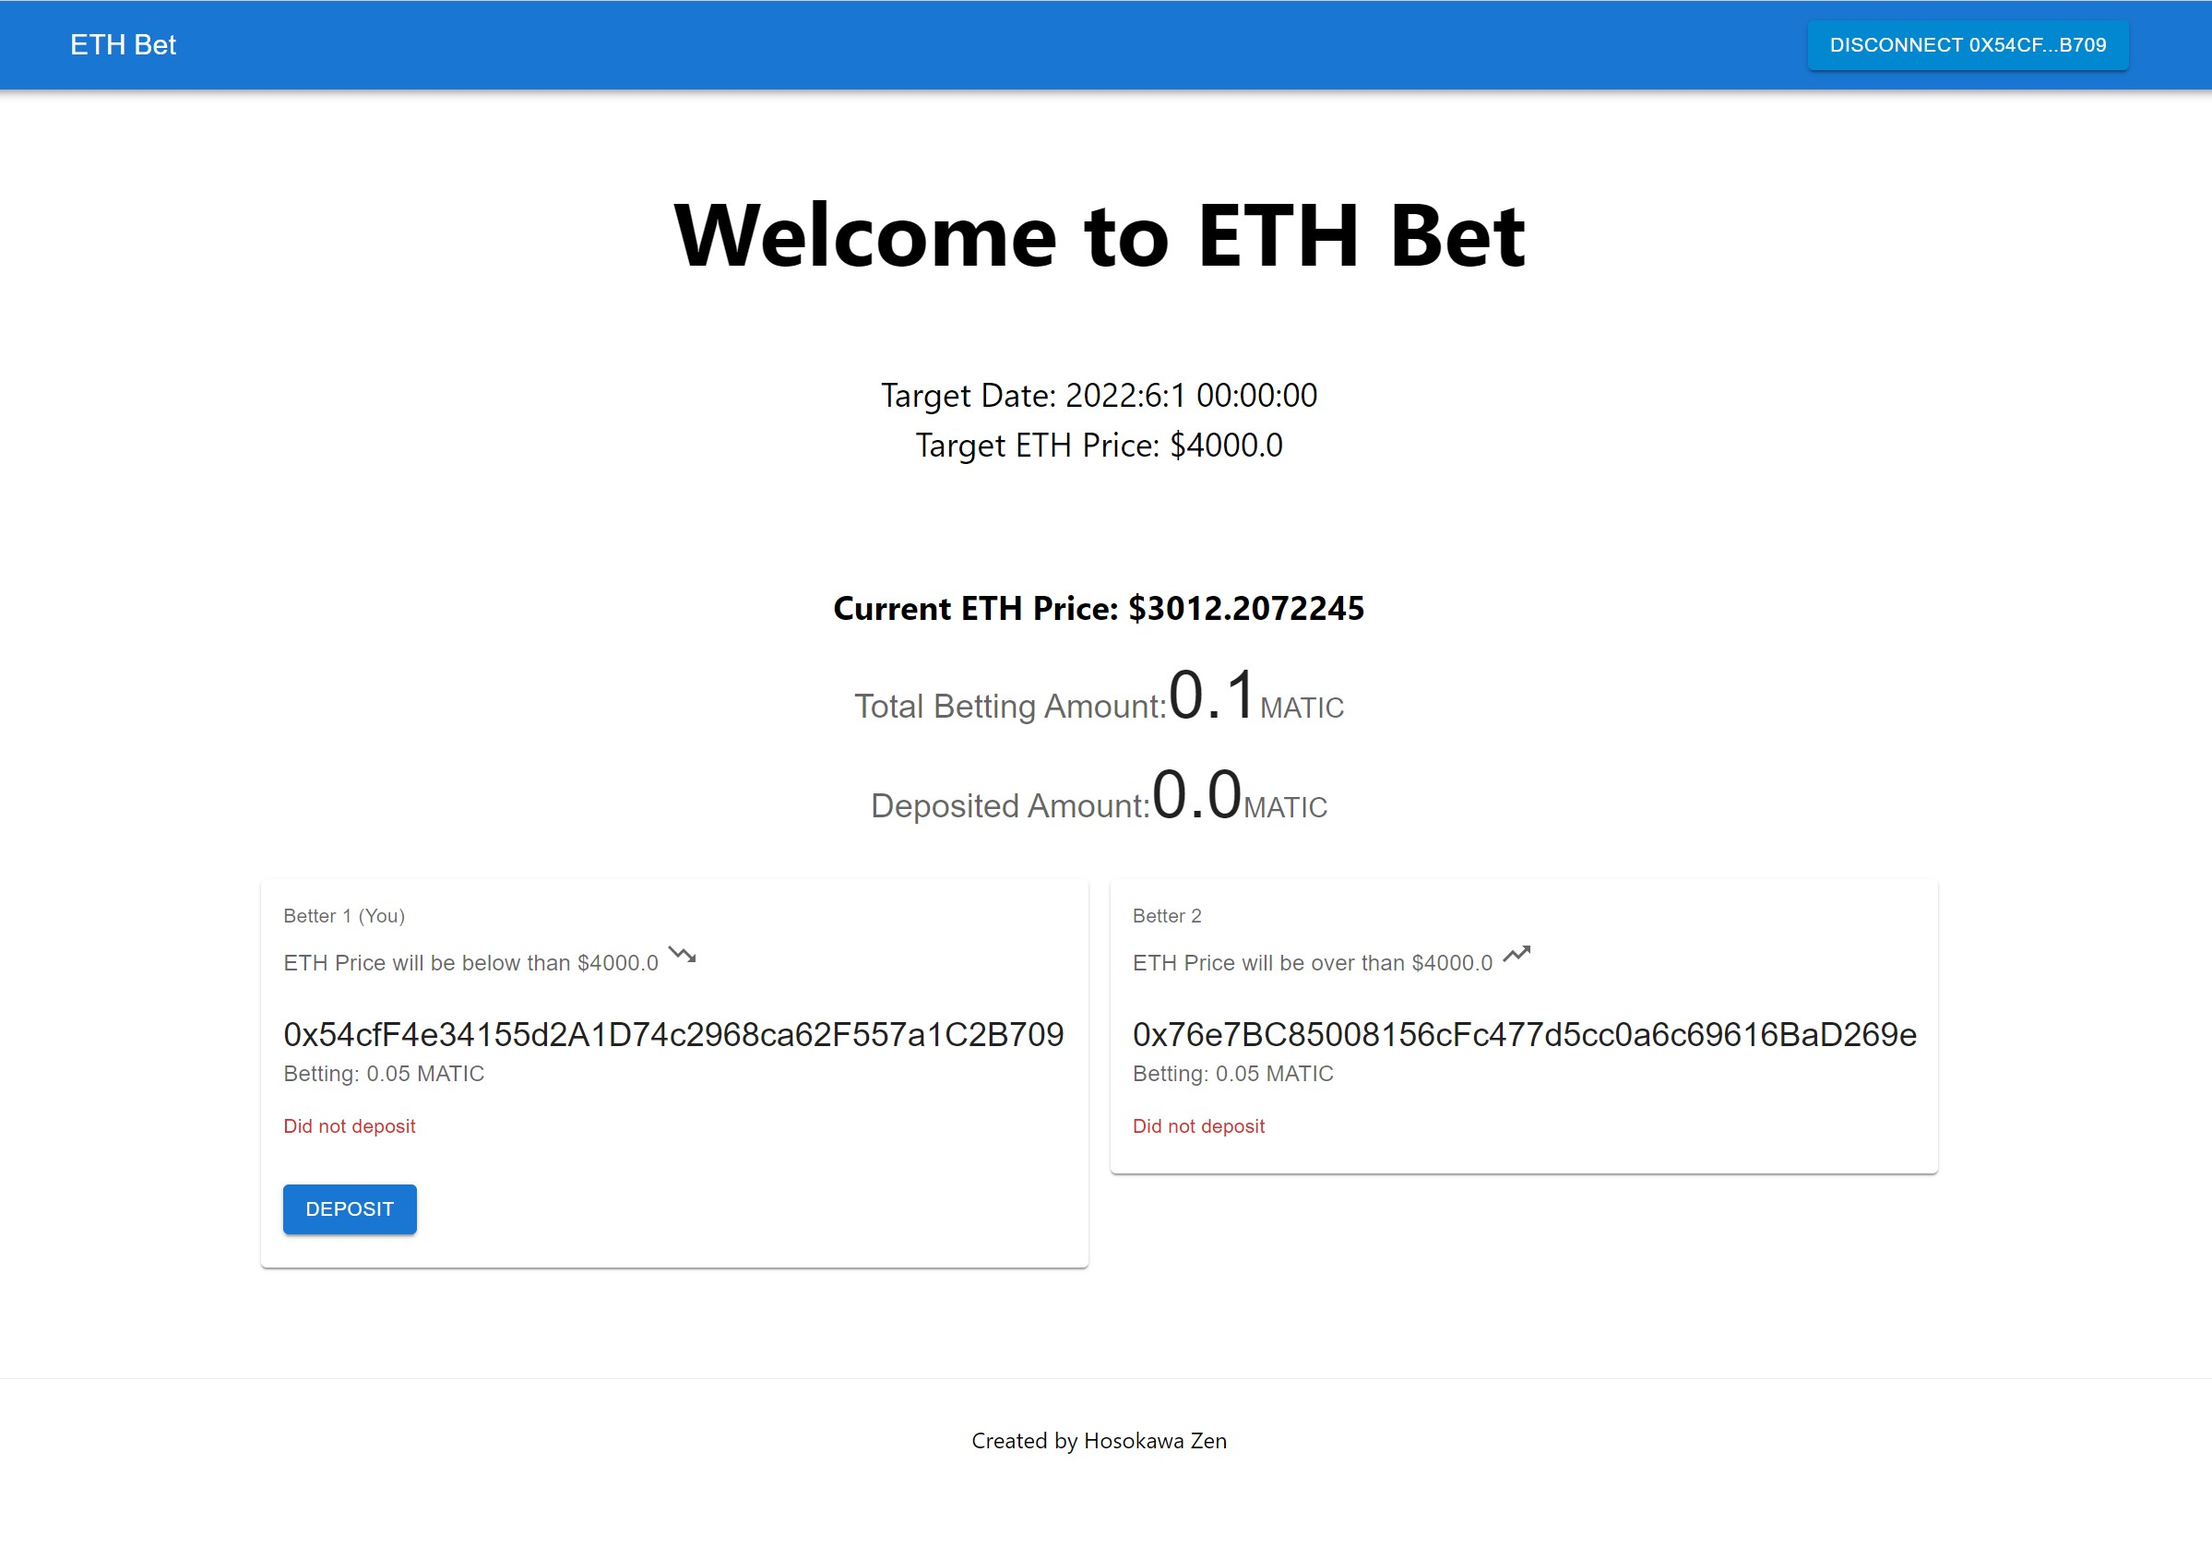
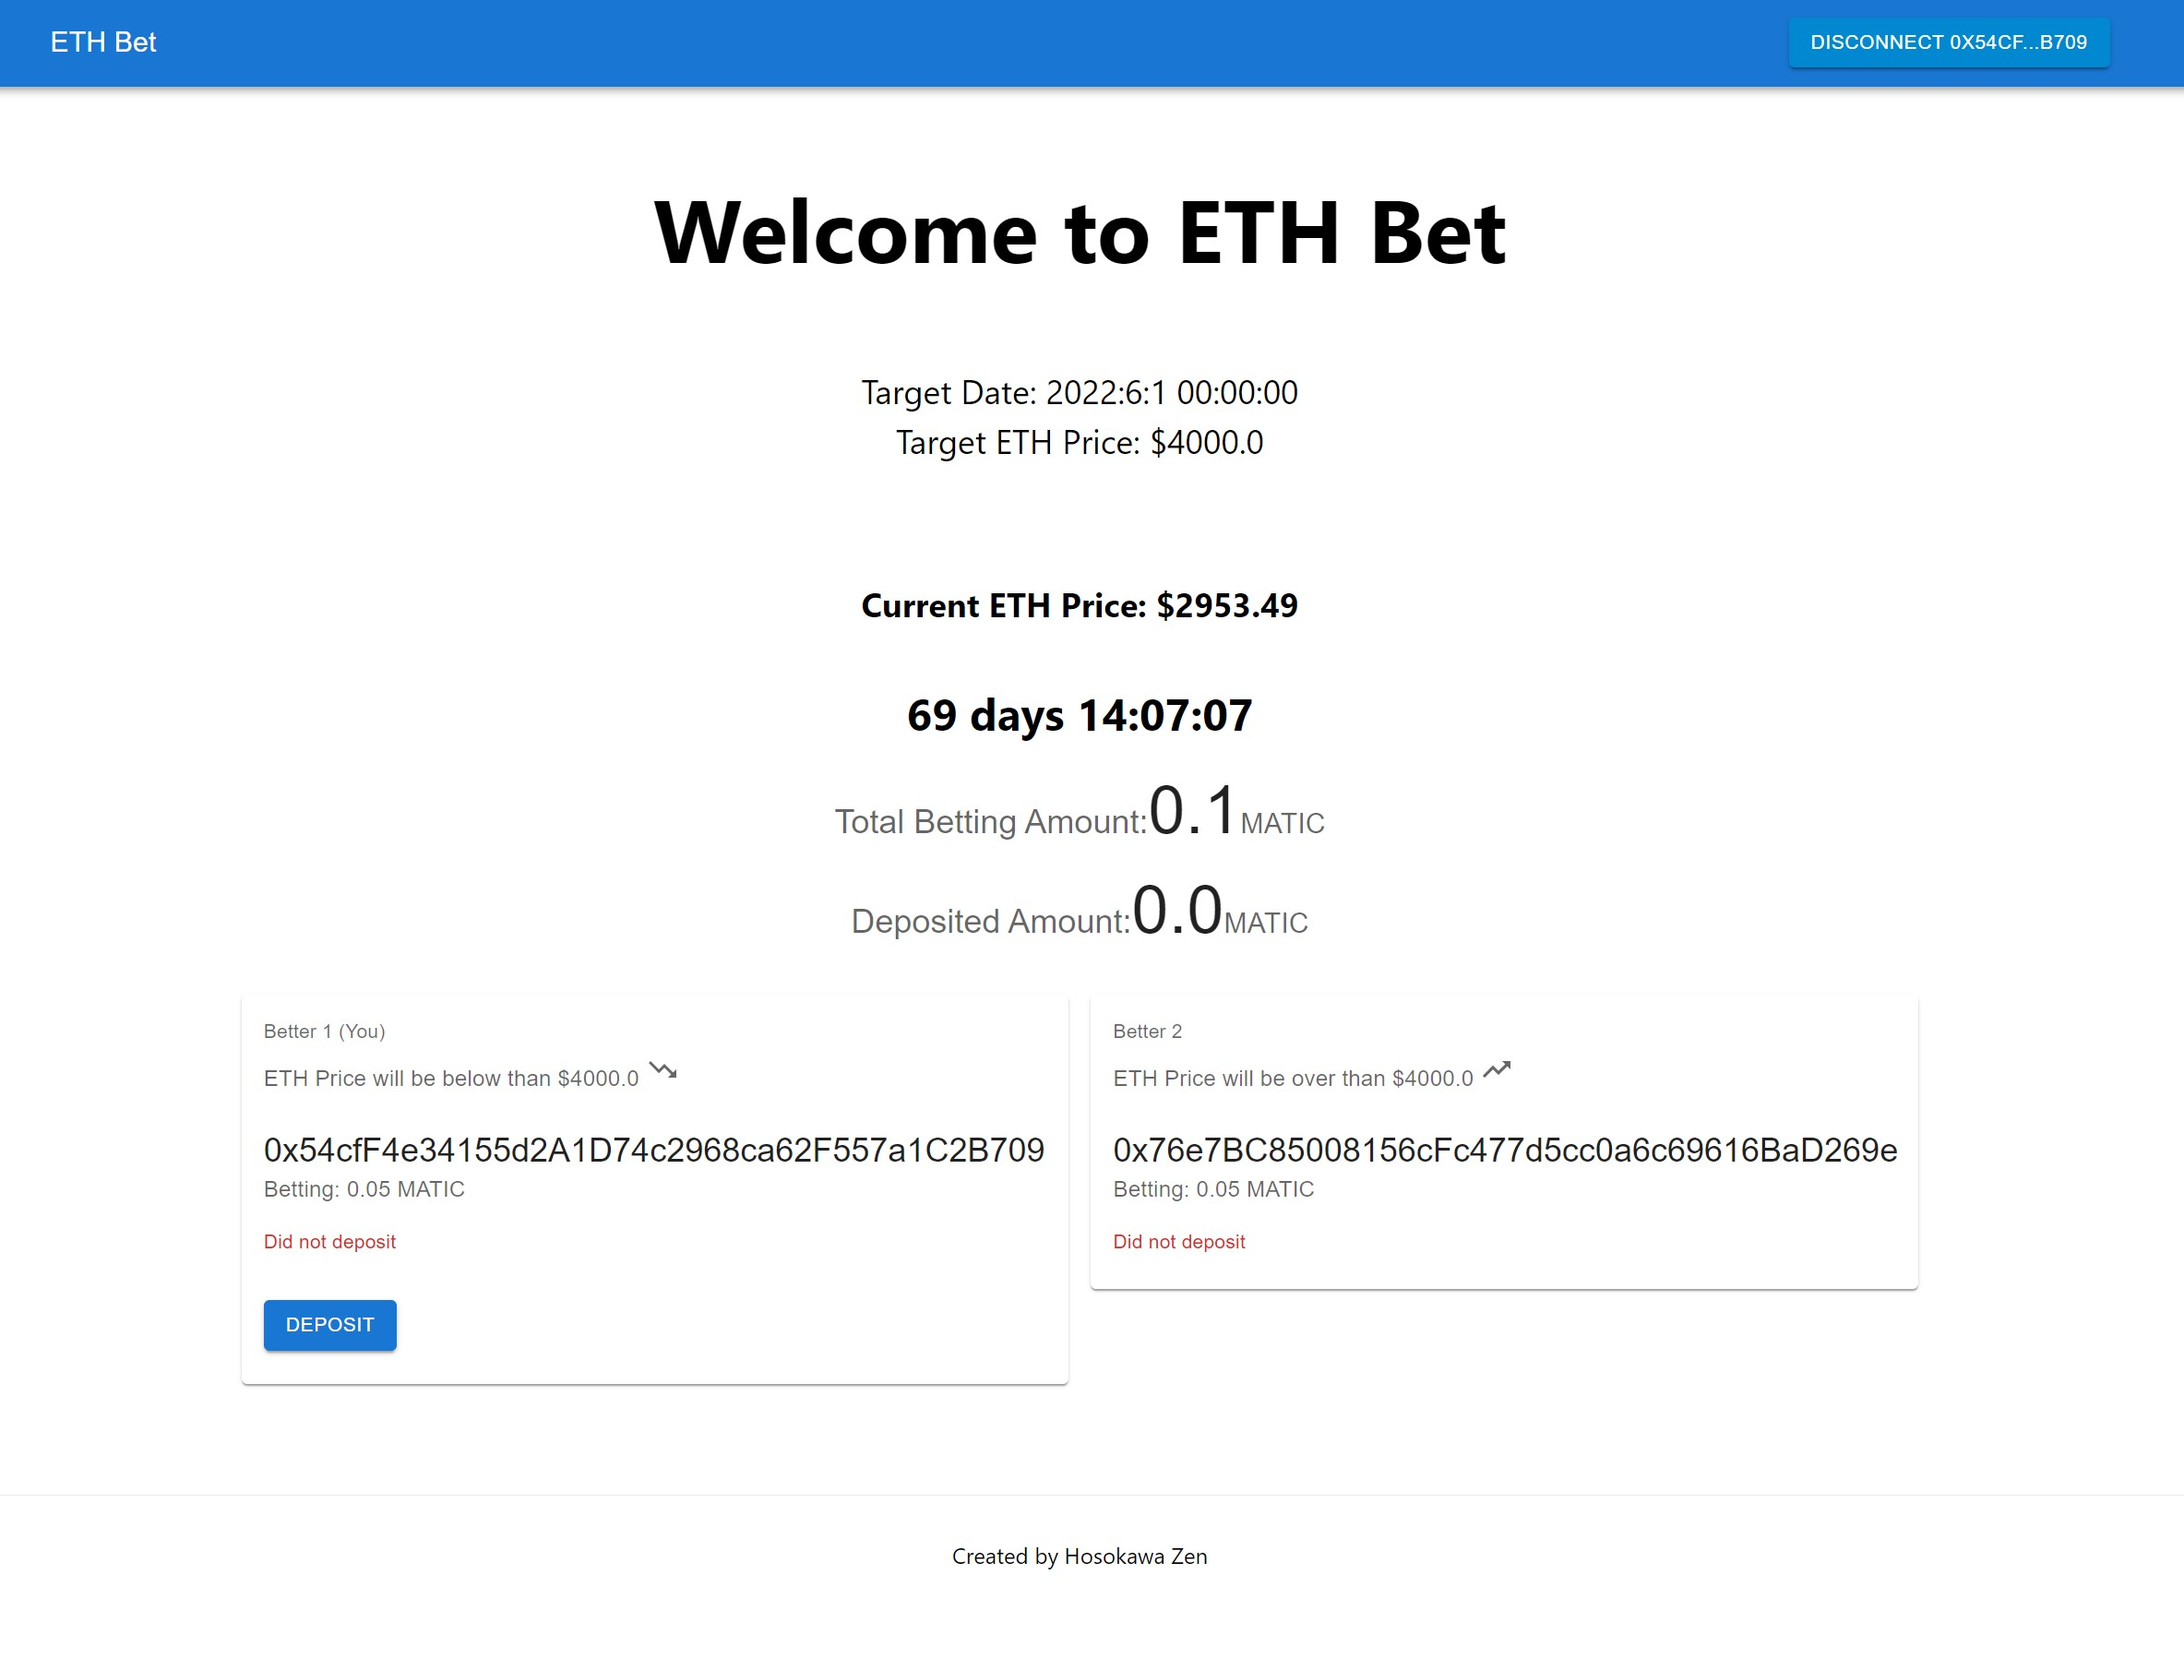
add time counter

diff --git a/packages/front-end/pages/index.tsx b/packages/front-end/pages/index.tsx
@@ -8,6 +8,7 @@ import useActiveWeb3React from "../hooks/useActiveWeb3React";
 import BetterCard, {EtherBet, parseBetterData} from "../components/BetterCard";
 import {BigNumber} from "@ethersproject/bignumber";
 import {formatWithDecimals} from "../utils/decimal";
+import CountDown from "../components/CountDown";
 
 interface BetData {
     betters: EtherBet[];
@@ -64,7 +65,10 @@ const Home: NextPage = () => {
         console.log('effect');
     }, [account, etherBetContract]);
 
+    const targetDate = betData?.endTp ? (betData.endTp.getFullYear() + ':' + (betData.endTp.getMonth() + 1) + ':' + betData.endTp.getDate()) + ' 00:00:00' : ' - ';
+    const initSecCounter = (betData?.endTp && betData.endTp.getTime() > new Date().getTime()) ? (betData.endTp.getTime() - new Date().getTime()) / 1000 : 0;
 
+    console.log('initSec', initSecCounter);
     return (
         <div className={styles.container}>
             <Head>
@@ -77,12 +81,14 @@ const Home: NextPage = () => {
                     Welcome to ETH Bet
                 </h1>
                 <p className={styles.description}>
-                    Target Date: {betData?.endTp ? (betData.endTp.getFullYear() + ':' + (betData.endTp.getMonth() + 1) + ':' + betData.endTp.getDate()) + ' 00:00:00' : ' - '} <br/>
+                    Target Date: {targetDate} <br/>
                     Target ETH Price: ${betData?.tpPrice ? formatWithDecimals(betData.tpPrice) : ' -'}
                 </p>
                 <h2 className="current-eth-price">
                     Current ETH Price: ${lastETHPrice ? formatWithDecimals(lastETHPrice) : ' - '}
                 </h2>
+
+                <CountDown initSec={initSecCounter}/>
 
                 <Box
                     sx={{

diff --git a/packages/front-end/components/CountDown/index.tsx b/packages/front-end/components/CountDown/index.tsx
@@ -1,0 +1,41 @@
+import {useEffect, useState} from "react";
+
+const CountDown = (props: any) => {
+    const {initSec = 0} = props;
+    const [sec, setSecs] = useState(initSec);
+
+    useEffect(() => {
+        let counterInterval = setInterval(() => {
+            if (sec > 0) {
+                setSecs(sec - 1);
+            }
+            if (sec === 0) {
+                clearInterval(counterInterval)
+            }
+        }, 1000)
+        return () => {
+            clearInterval(counterInterval);
+        };
+    });
+
+    useEffect(() => {
+        setSecs(initSec);
+    }, [initSec]);
+
+    const days = Math.floor(sec / (60 * 60 * 24));
+    let divisor_for_next = sec % (60 * 60 * 24);
+    const hours = Math.floor(divisor_for_next / (60 * 60));
+    divisor_for_next = divisor_for_next % (60 * 60);
+    const minutes = Math.floor(divisor_for_next / 60);
+    const seconds = Math.ceil(divisor_for_next % 60);
+
+    return (
+        <h1 className="time-counter">
+            {sec === 0 ? '00:00:00'
+                : <>{days > 0 ? `${days} days` : ''} {hours > 9 ? `${hours}` : `0${hours}`}:{minutes > 9 ? `${minutes}` : `0${minutes}`}:{seconds > 9 ? `${seconds}` : `0${seconds}`}</>
+            }
+        </h1>
+    )
+}
+
+export default CountDown;

diff --git a/README.md b/README.md
@@ -91,5 +91,7 @@ yarn deploy
 yarn start
 ```
 
-![Image](./screenshots/Screenshot%202022-03-23%20012259.jpg)
+## Result
+Deployed [ChainlinkEtherBet Contract at 0x45b20C5Fb9E5A9d77a7428a8631262f0C1Da5c3c on Mumbai(Testnet)](https://mumbai.polygonscan.com/address/0x45b20C5Fb9E5A9d77a7428a8631262f0C1Da5c3c) (Upgradable)
 
+![Image](./screenshots/Screenshot%202022-03-23%20012259.jpg)
